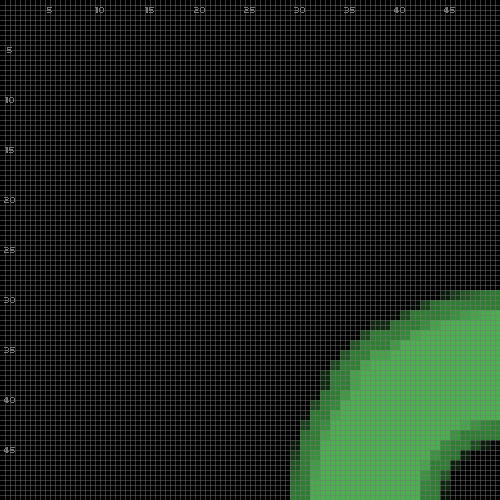
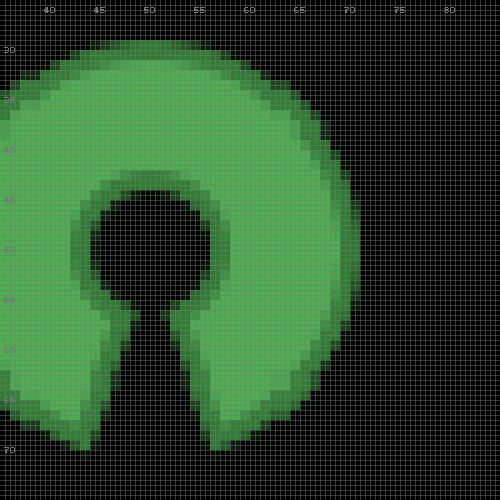
- guide: zoom/scroll

diff --git a/lua/doc/guide.md b/lua/doc/guide.md
@@ -421,10 +421,9 @@ rendered:
 <table>
 <tr><td><pre>
 > pico.output.clear()
-> pico.output.draw.image("img/open.png",
-    {'%', x=0.5, y=0.5, w=0.5, h=0.5})
+> pico.output.draw.image("img/open.png", {'%', x=0.5, y=0.5, w=0.5, h=0.5})
 > pico.set.view {
-    target = {'%', x=0.66, y=0.66, w=0.4, h=0.3},
+    target = { '%', x=0.66, y=0.66, w=0.4, h=0.3 },
   }
 </pre>
 </td><td>
@@ -443,11 +442,10 @@ The `source` property selects which region of the logical world is visible:
 <tr><td><pre>
 > pico.init(false)
 > pico.init(true)
-> pico.output.draw.image("img/open.png",
-    {'%', x=0.5, y=0.5, w=0.5, h=0.5})
+> pico.output.draw.image("img/open.png", {'%', x=0.5, y=0.5, w=0.5, h=0.5})
 > pico.set.view {
-    source = {'%', x=0.5, y=0.6, w=0.3, h=0.3},
-    target = {'%', x=0.5, y=0.5, w=0.3, h=0.3},
+    source = { '%', x=0.5, y=0.6, w=0.3, h=0.3 },
+    target = { '%', x=0.5, y=0.5, w=0.3, h=0.3 },
   }
 </pre>
 </td><td>
@@ -467,10 +465,9 @@ The `clip` property restricts drawing to a sub-region of the world:
 > pico.init(false)
 > pico.init(true)
 > pico.set.view {
-    clip = {'%', x=0.5, y=0.5, w=0.25, h=0.25},
+    clip = { '%', x=0.5, y=0.5, w=0.25, h=0.25 },
   }
-> pico.output.draw.image("img/open.png",
-    {'%', x=0.5, y=0.5, w=0.5, h=0.5})
+> pico.output.draw.image("img/open.png", {'%', x=0.5, y=0.5, w=0.5, h=0.5})
 </pre>
 </td><td>
 <img src="img/guide-06-03-01.png" width="200">
@@ -491,10 +488,9 @@ A **smaller** source creates a zoom effect:
 <tr><td><pre>
 > pico.init(false)
 > pico.init(true)
-> pico.output.draw.image("img/open.png",
-    {'%', x=0.5, y=0.5, w=0.5, h=0.5})
+> pico.output.draw.image("img/open.png", {'%', x=0.5, y=0.5, w=0.5, h=0.5})
 > pico.set.view {
-    source = {'!', x=0, y=0, w=50, h=50},
+    source = { '%', x=0.5, y=0.5, w=0.5, h=0.5 },
   }
 </pre>
 </td><td>
@@ -502,14 +498,14 @@ A **smaller** source creates a zoom effect:
 </td></tr>
 </table>
 
-The source covers half the world, resulting in a 2x zoom.
+Setting `w/h` to half and starting from center resuluts in a 2x zoom.
 
-An **offset** source position creates a scroll effect:
+Now, applying an **offset** to current position creates a scroll effect:
 
 <table>
 <tr><td><pre>
 > pico.set.view {
-    source = {'!', x=25, y=25, w=50, h=50},
+    source = { '%', x=0.6, y=0.5, w=0.5, h=0.5 },
   }
 </pre>
 </td><td>
@@ -517,8 +513,8 @@ An **offset** source position creates a scroll effect:
 </td></tr>
 </table>
 
-The source is offset by `(25,25)`, scrolling the zoomed view towards the
-center of the world.
+A `0.1` offset in `x` crops the source on its right side, which targets the
+whole window, resulting in an opposite scroll to the left.
 
 ## 7. Events
 
@@ -602,6 +598,9 @@ The `pico.quit()` function pushes a quit event, which can be caught by
 ```
 
 ## 8. Layers
+
+- flip, rotate
+- others: video, buffer
 
 Layers are off-screen textures for compositing complex scenes.
 
